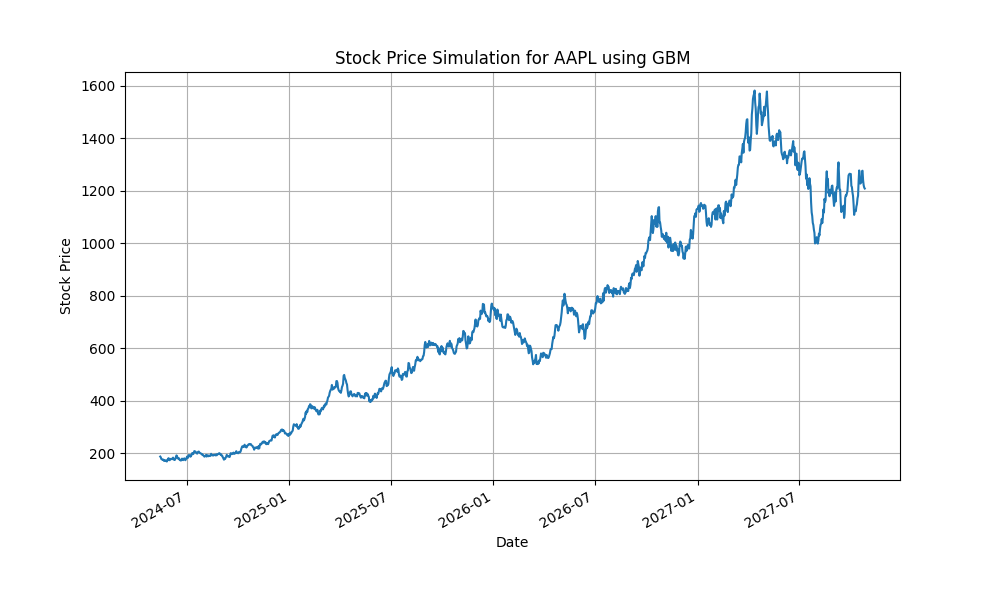
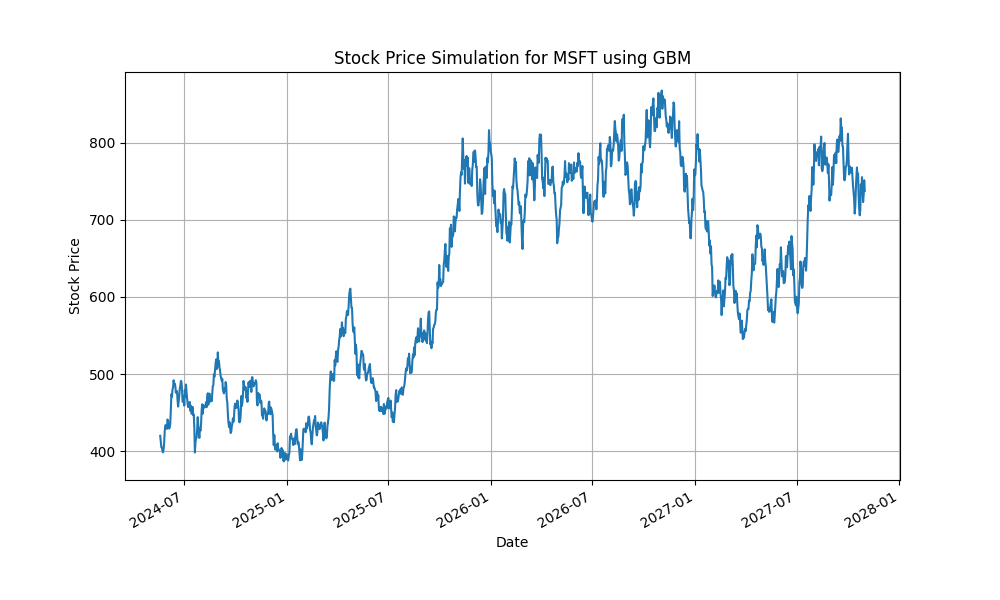
Changed example.png and README.md so it is a more realistic example.

diff --git a/README.md b/README.md
@@ -58,17 +58,17 @@ This project simulates the future stock prices of a user-specified ticker using 
 Running the script with prompt inputs:
 
 ```
-Enter the stock ticker: AAPL
-Enter start date for historical data (YYYY-MM-DD) [default: 2019-05-17]:
-Enter end date for historical data (YYYY-MM-DD) [default: 2024-05-15]:
+Enter the stock ticker: MSFT
+Enter start date for historical data (YYYY-MM-DD) [default: 2019-05-21]:
+Enter end date for historical data (YYYY-MM-DD) [default: 2024-05-19]:
 Enter the prediction period in days [default: 1260]:
 ```
 
 Output:
 
-- Annualized Mean Return (mu): 0.3965
-- Annualized Volatility (sigma): 0.3177
-- Most Recent Closing Price: 187.43
+- Annualized Mean Return (mu): 0.3440
+- Annualized Volatility (sigma): 0.3038
+- Most Recent Closing Price: 420.21
 
 The plot displays the simulated stock price path over the next 1260 days (5 years).
 
